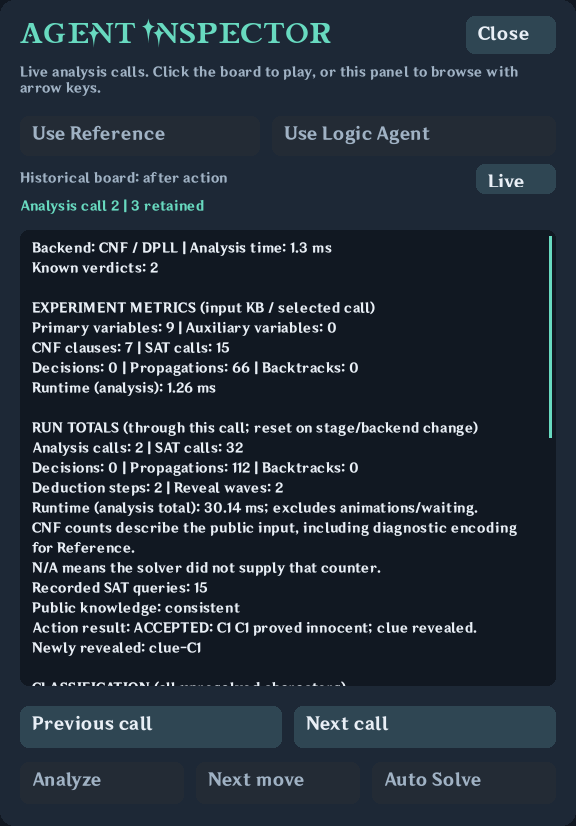
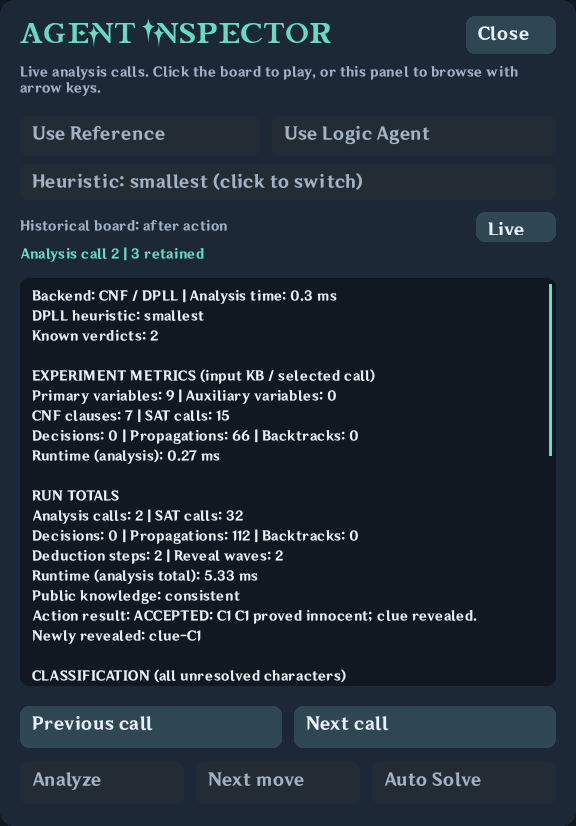
Update report with current agent heuristic controls

Changed region(s): [[0.0312, 0.2119, 0.9062, 0.8475], [0.8125, 0.1816, 0.9688, 0.3329]]

diff --git a/report/chapter2.tex b/report/chapter2.tex
@@ -45,12 +45,14 @@ Các tính năng chính gồm:
 
 Trong bảng Agent, \texttt{Previous call}/\texttt{Next call} cho phép xem lại bàn cờ sau hành động tương ứng. Chế độ lịch sử chỉ đọc, không thay đổi trạng thái trò chơi đang chạy; \texttt{Live} đưa người chơi trở về bàn cờ hiện tại. Bảng cũng hiển thị số biến chính/phụ, mệnh đề CNF, lượt gọi SAT, quyết định, lan truyền, quay lui, bước suy diễn và thời gian, tách theo lượt phân tích và tổng tích lũy. Bộ đếm chưa được cung cấp hiển thị \texttt{N/A}.
 
-Hình~\ref{fig:agent-inspector} minh họa bảng Agent khi sử dụng tác tử CNF/DPLL và xem lại một lượt phân tích trước đó.
+Khi chọn \texttt{Use Logic Agent}, nút \texttt{Heuristic} cho phép chuyển giữa \texttt{smallest} (mặc định) và \texttt{jw}; hai chiến lược được trình bày ở Chương~\ref{chap:dpll}. Việc chuyển giữ nguyên các thẻ đã chứng minh nhưng xóa lịch sử và bộ đếm tích lũy để không trộn số liệu giữa các cấu hình. Lựa chọn được giữ khi chơi lại hoặc đổi màn. Nút này bị khóa khi đang phân tích, giải tự động hoặc xem lịch sử; mỗi lượt phân tích ghi rõ heuristic đã sử dụng.
+
+Hình~\ref{fig:agent-inspector} minh họa bảng Agent hiện tại với lựa chọn heuristic và lịch sử phân tích của tác tử CNF/DPLL.
 
 \begin{figure}[!htbp]
     \centering
     \includegraphics[width=0.8\textwidth]{figures/agent_inspector.png}
-    \caption{Agent inspector hiển thị lịch sử phân tích và các chỉ số của tác tử CNF/DPLL.}
+    \caption{Agent inspector với nút chọn heuristic, lịch sử phân tích và các chỉ số của tác tử CNF/DPLL.}
     \label{fig:agent-inspector}
 \end{figure}
 
